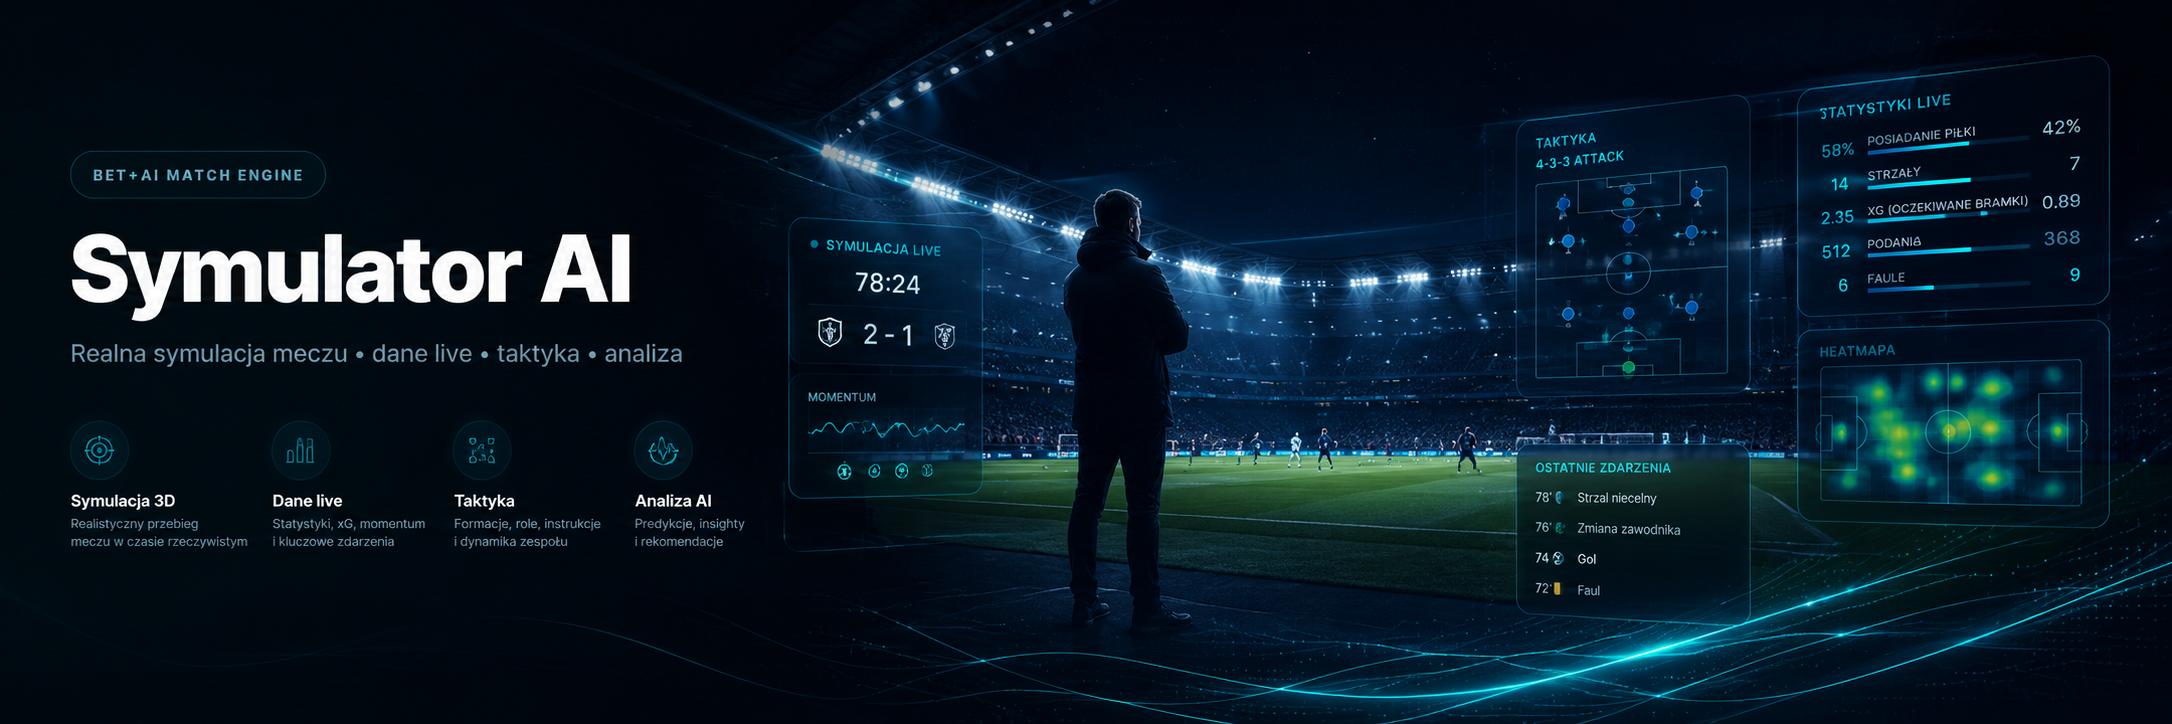
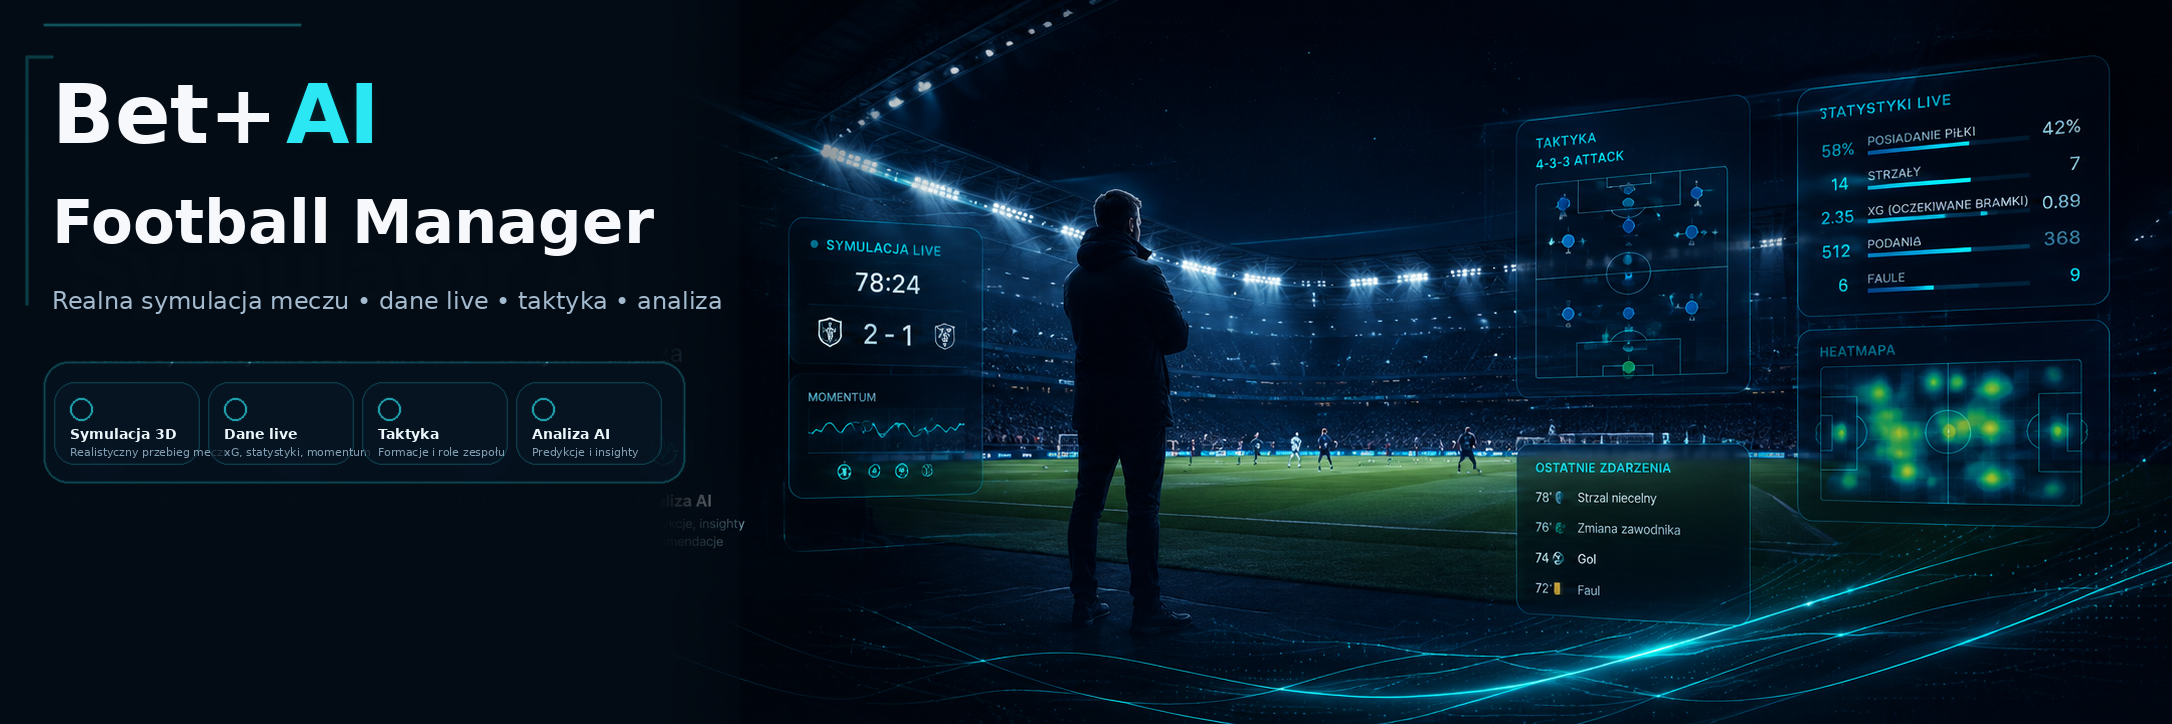
5656566565665

diff --git a/src/MatchSimulatorDailyMatchesView.jsx b/src/MatchSimulatorDailyMatchesView.jsx
@@ -190,20 +190,8 @@ export default function MatchSimulatorDailyMatchesView({ lang = 'pl', onSelectMa
 
   return (
     <section className="sim-day-page-v98 sim-day-real-v99">
-      <header className="sim-day-topbar-v98">
-        <div>
-          <span className="sim-day-kicker-v98">BET+AI • {copy.real}</span>
-          <h2>{copy.title}</h2>
-          <p>{copy.subtitle}</p>
-        </div>
-        <div className="sim-day-date-wrap-v99">
-          <div className="sim-day-datebadge-v98">{copy.top} • {formatDateLabel(todayKey)}</div>
-          <button type="button" className="sim-day-refresh-v99" onClick={loadMatches} disabled={loading}>↻ {copy.refresh}</button>
-        </div>
-      </header>
-
       <section className="sim-day-hero-v100" aria-label="Symulator AI hero">
-        <img src="/symulator-ai-hero-banner-v100.png" alt="Symulator AI – realna symulacja meczu" />
+        <img src="/symulator-ai-hero-banner-v100.png" alt="Bet+AI Football Manager – realna symulacja meczu" />
       </section>
 
       <div className="sim-day-layout-v98">
